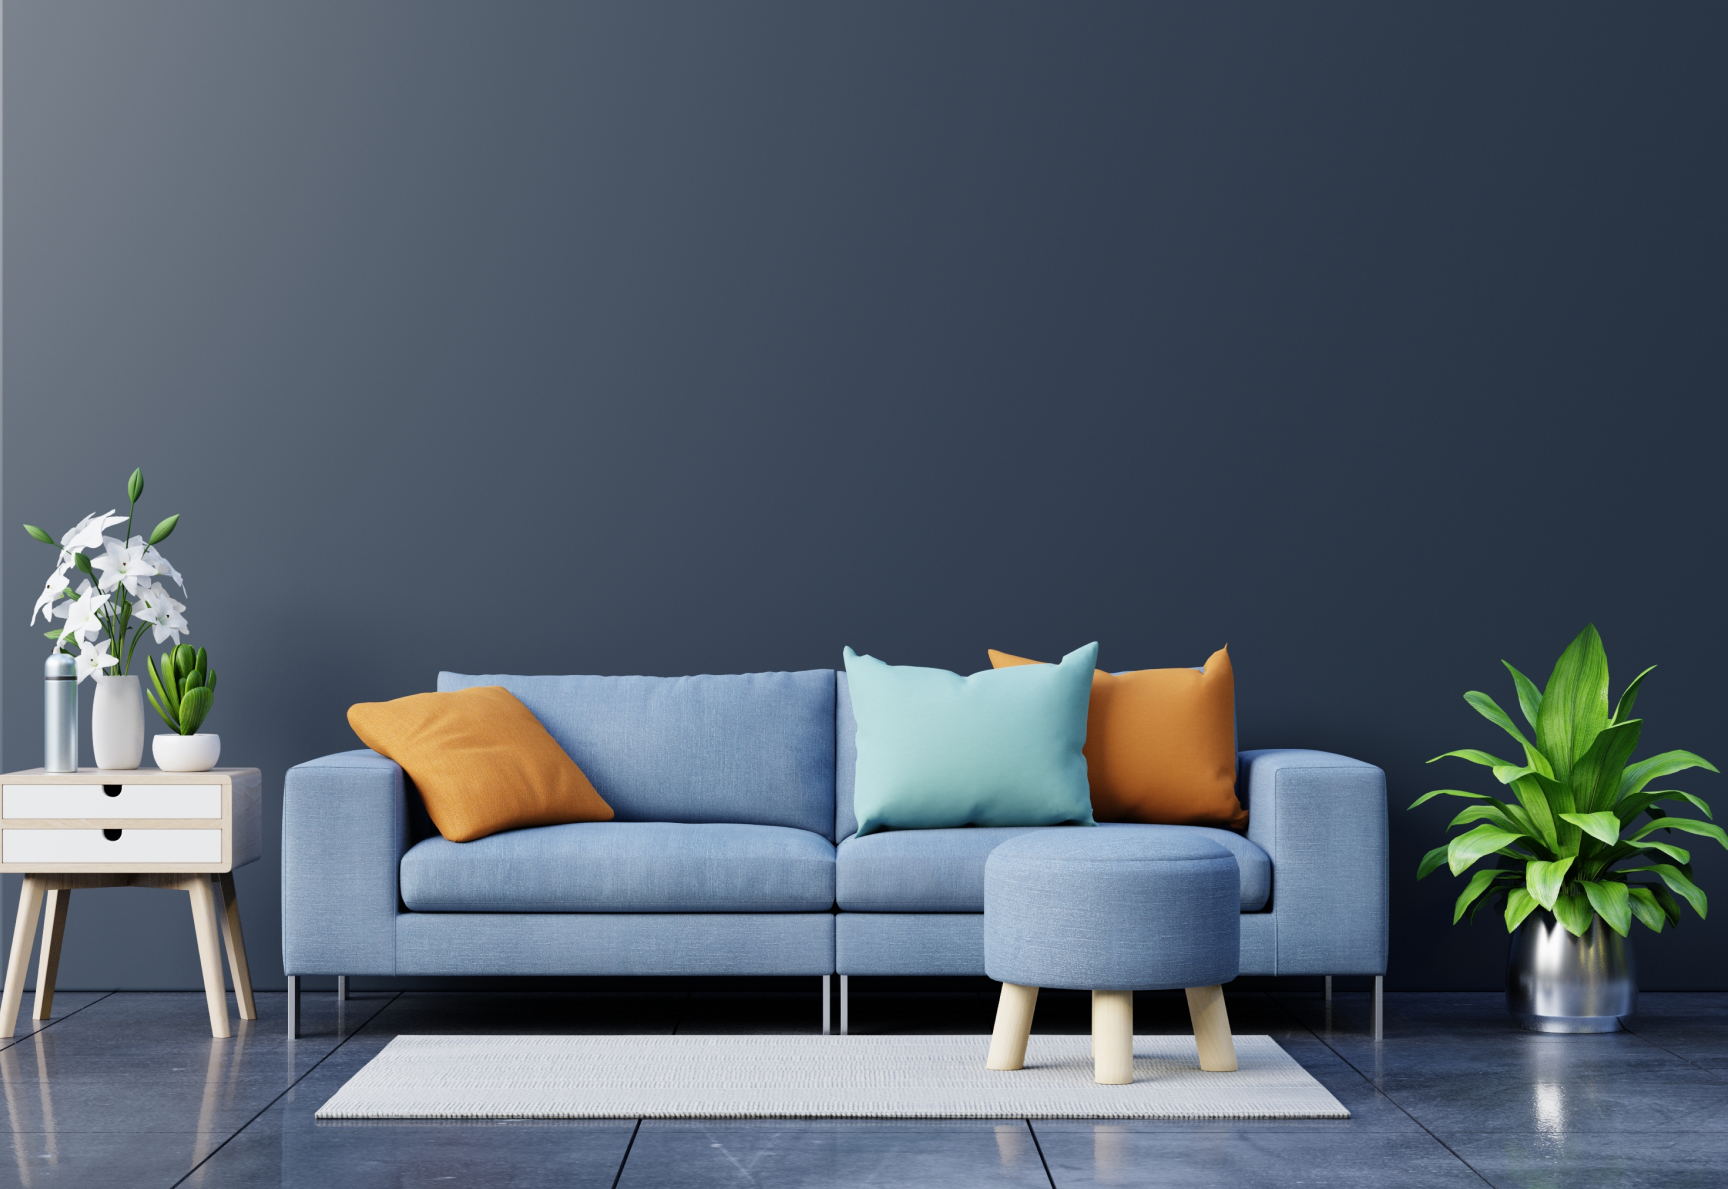
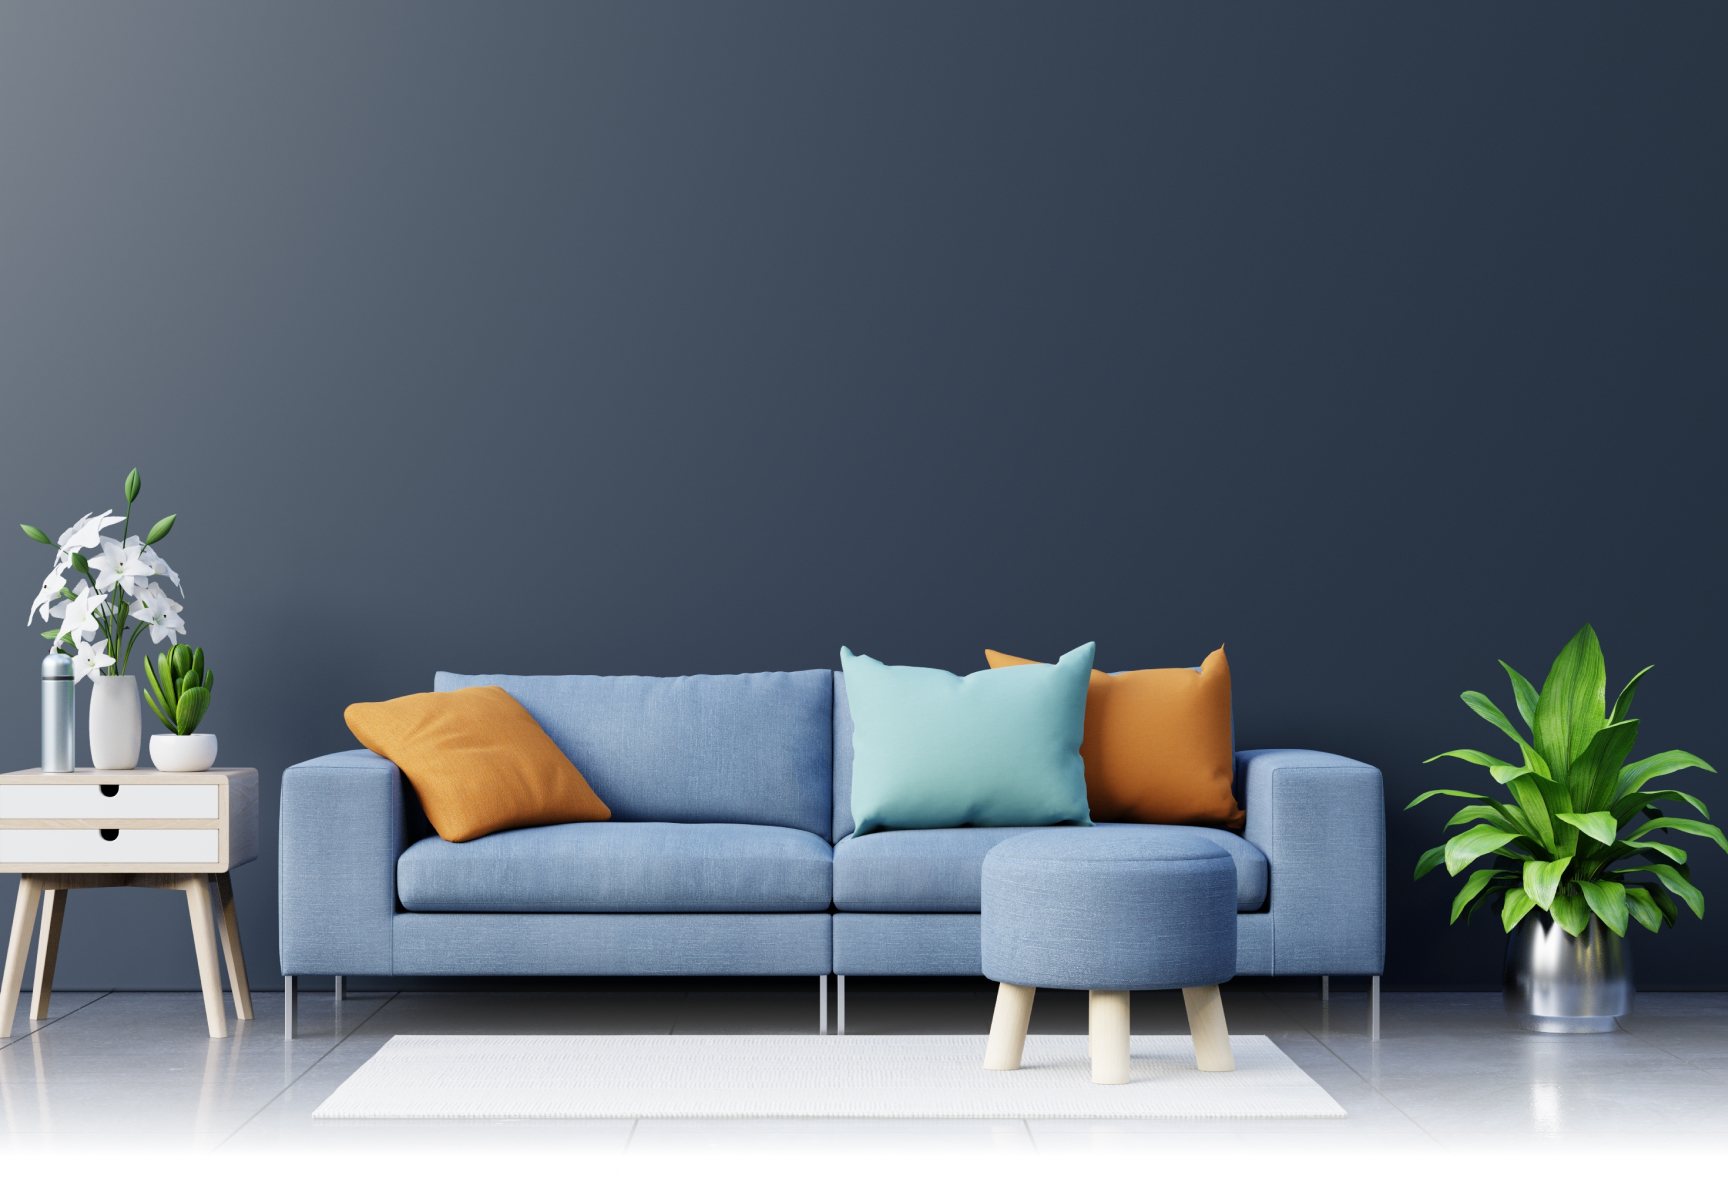
oh i'm done

diff --git a/css/style.css b/css/style.css
@@ -1,0 +1,141 @@
+:root {
+	--main-font-family: "Work Sans", sans-serif;
+
+	--fw-regular: 400;
+	--fw-medium: 500;
+	--fw-semi-bold: 600;
+	--fw-bold: 700;
+
+	--color-primary: #2AF598;
+	--color-second: #009EFD;
+	--color-third: #F9F9F9;
+}
+
+@media (min-width: 1733) {
+	#hero {
+		background-size: cover;
+	}
+}
+
+body {
+	width: 100vw;
+	height: 100vh;
+	position: relative;
+	width: inherit;
+	height: inherit;
+	font-family: var(--main-font-family);
+	
+}
+
+/**********************************************************************************************************************************/
+
+header {
+	position: absolute;
+	width: 100%;
+	height: 8.68vw;
+	display: flex;
+	justify-content: center;
+	align-items: center;
+	padding: 0 125px;
+}
+
+.menu {
+	display: flex;
+	column-gap: 4vw;
+	list-style: none;
+}
+
+.menu-link {
+	font-weight: var(--fw-regular);
+	font-size: 1.38vw;
+	color: #FFFFFF;
+	text-decoration: none;
+}
+
+.menu li:first-child a {
+	font-weight: var(--fw-semi-bold);
+	background: linear-gradient(90deg, #2AF598 0%, #009EFD 100%);
+	-webkit-background-clip: text;
+	-webkit-text-fill-color: transparent;
+	background-clip: text;
+}
+
+.chart {
+	position: absolute;
+	right: 12vw;
+}
+
+/**********************************************************************************************************************************/
+
+#hero {
+	display: flex;
+	flex-direction: column;
+	align-items: center;
+	background: url(../img/hero-bg.jpg);
+	background-size: contain;
+	background-repeat: no-repeat;
+	background-position: top center;
+	padding: 10.7vw 0 40.8vw;
+}
+
+.hero-header {
+	width: 65.4vw;
+	font-weight: var(--fw-bold);
+	font-size: 4.75vw;
+	text-align: center;
+	color: var(--color-third);
+	margin-bottom: 1.7vw;
+}
+
+.hero-subheader {
+	width: 33.7vw;
+	font-weight: var(--fw-regular);
+	font-size: 1.39vw;
+	line-height: 150%;
+	text-align: center;
+	color: var(--color-third);
+	margin-bottom: 2.4vw;
+}
+
+#search {
+	position: relative;
+	display: flex;
+	align-items: center;
+}
+
+#search input:nth-child(1) {
+	width: 26.8vw;
+	height: 4.1vw;
+	background: rgba(255, 255, 255, 0.2);
+	border: 1px solid var(--color-third);
+	backdrop-filter: blur(10px);
+	border-radius: 2.9vw;
+
+	font-weight: var(--fw-regular);
+	font-size: 1.2vw;
+	color: var(--color-third);
+	padding-left: 1.7vw;
+}
+#search input:nth-child(1)::placeholder {
+	color: var(--color-third);
+}
+
+#search input:nth-child(2) {
+	position: absolute;
+	right: 0.7vw;
+	width: 2.9vw;
+	height: 2.9vw;
+	border-radius: 50%;
+	border: none;
+	background: linear-gradient(90deg, #2AF598 0%, #009EFD 100%);
+}
+
+#search img {
+	position: absolute;
+	width: 1.5vw;
+	height: 1.5vw;
+	right: 1.41vw;
+}
+
+/**********************************************************************************************************************************/
+

diff --git a/index.html b/index.html
@@ -5,12 +5,63 @@
 		<meta http-equiv="X-UA-Compatible" content="IE=edge">
 		<meta name="viewport" content="width=device-width, initial-scale=1.0">
 		<link href="https://fonts.googleapis.com/css2?family=Work+Sans:wght@400;500;600;700&display=swap" rel="stylesheet">
+		<link rel="stylesheet" href="./css/mynormalize.min.css">
 		<link rel="stylesheet" href="./css/style.css">
 		<script src="./js/main.js" defer></script>
 		<title>PlantShop</title>
 	</head>
 
 	<body>
-		
+		<header id="header">
+			<nav>
+				<ul class="menu">
+					<li><a class="menu-link" href="#">Home</a></li>
+					<li><a class="menu-link" href="#">Shop</a></li>
+					<li><a class="menu-link" href="#">About Us</a></li>
+					<li><a class="menu-link" href="#">Contact</a></li>
+				</ul>
+			</nav>
+			<a class="chart">
+				<img src="./icons/chart.svg" alt="chart">
+			</a>
+		</header>
+
+		<main>
+			<section id="hero">
+				<h1 class="hero-header">Bring Serenity to Your Place
+				With Interior Plants</h1>
+				<h2 class="hero-subheader">find your dream plant for you home decoration with us, and we will make it happen.</h2>
+				<form id="search" action="#">
+					<input type="text" placeholder="Search plant">
+					<input class="search-button" type="button" value="">
+					<img src="./icons/search.svg" alt="search icon">
+				</form>
+				<!-- <div class="popup-point">
+					<canvas class="popup-window">
+						<p>$65.00</p>
+						<p>Amazon Lily</p>
+					</canvas>
+				</div>
+				<div class="popup-point">
+					<canvas class="popup-window">
+						<p>$65.00</p>
+						<p>Mini Aloe</p>
+					</canvas>
+				</div>
+				<div class="popup-point">
+					<canvas class="popup-window">
+						<p>$65.00</p>
+						<p>Dracena Fragnas</p>
+					</canvas>
+				</div> -->
+			</section>
+
+			<section id="benefits"></section>
+			<section id="best-sellers"></section>
+			<section id="interior-references"></section>
+			<section id="care"></section>
+		</main>
+
+		<footer></footer>
 	</body>
 </html>
